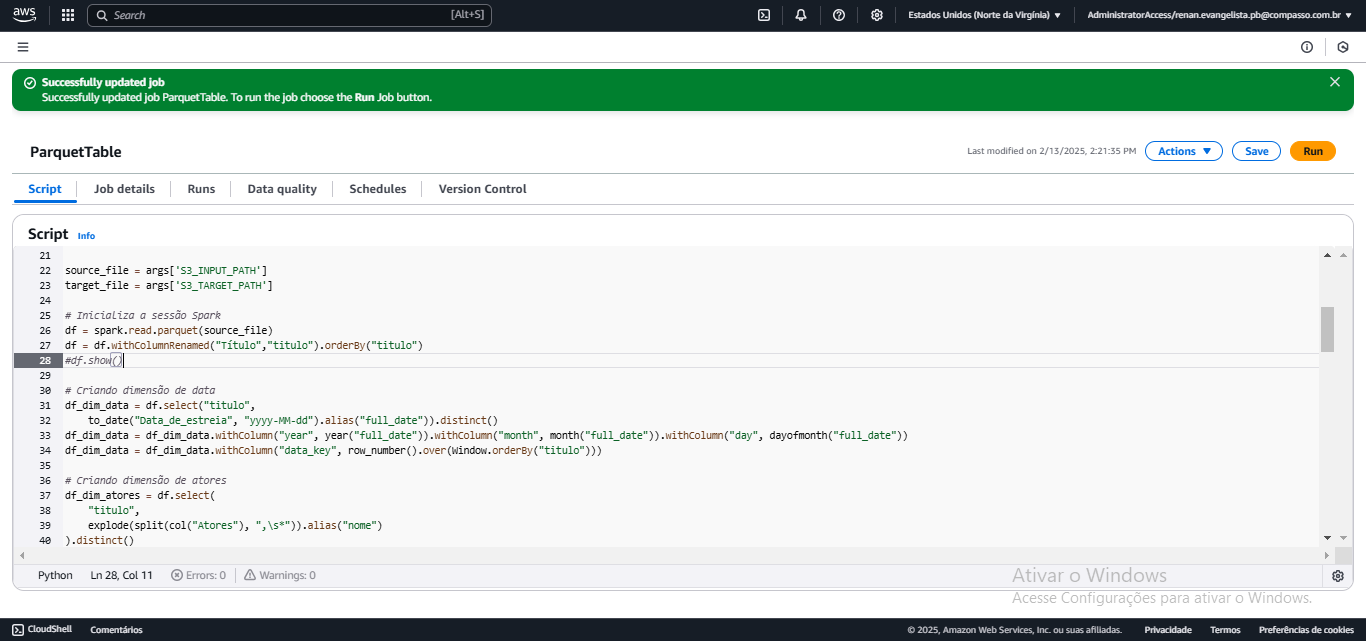
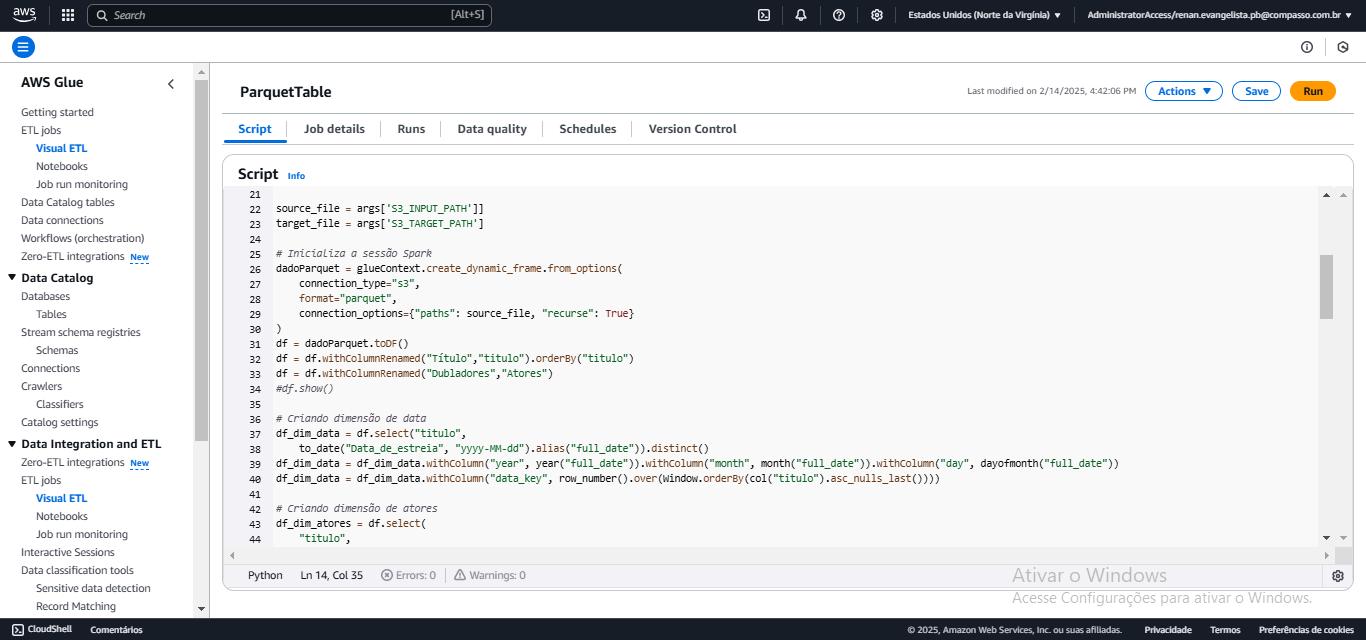
Depositando Sprint 9

diff --git a/Sprint9/desafio/README.md b/Sprint9/desafio/README.md
@@ -176,14 +176,14 @@ Na configuração do detalhe avançado, foi colocar o nome do arquivo python e d
 ![Imagem ](../evidencias/JobAdvancedDetailsGlue.png)
 
 
-Terminando a configuração do job do Glue, voltei para o bucket *renan-desafio-filmes-series-2024* do amazon S3, para pegar a url de onde está os arquivos parquet que serão usados para criar as tabelas. Aqui eu decidi usar sómente os arquivos que constam na camada *Trusted/TMDB/Parquet/*, onde só constá os arquivos parquet que trazem informação vinda da API TMDB.
+Terminando a configuração do job do Glue, voltei para o bucket *renan-desafio-filmes-series-2024* do amazon S3, para pegar a url de onde está os arquivos parquet que serão usados para criar as tabelas. Aqui eu decidi usar sómente os arquivos que constam na camada *Trusted*, onde só constá os arquivos parquet.
 
 
 
 ![Imagem ](../evidencias/UrlParquetS3.png)
 
 
-Depois de pegar esse caminho do bucket, coloquei ele como variável de ambiente como *Input_Path* e *Targuet_Path* para serem usadas no script do job. O *Input_Path* guarda o caminho da camada Trusted/TMDB/Parquet do bucket S3, e o *Targuet_Path* guarda o caminho base para o bucket *renan-desafio-filmes-series-2024*, para servir de ajuda na hora de guardar as tabelas criadas.
+Depois de pegar esse caminho do bucket, coloquei ele como variável de ambiente como *Input_Path* e *Targuet_Path* para serem usadas no script do job. O *Input_Path* guarda o caminho da camada *Trusted* do bucket S3, e o *Targuet_Path* guarda o caminho base para o bucket *renan-desafio-filmes-series-2024*, para servir de ajuda na hora de guardar as tabelas criadas.
 
 
 ![Imagem](../evidencias/JobParametersGlue.png)
@@ -202,7 +202,7 @@ No começo do código coloquei os imports que seriam úteis para criar as tabela
 
 Depois dos imports, coloquei cada váriaveis de ambiente, tanto input e target, para serem usadas no código. 
 
-Depois de colocar os caminhos em váriaveis, fui criar o dataframe contendo todo o conteúdo dos arquivos parquets da camada Trusted/TMDB. Feito isso, já renomeei o nome da coluna *Título* para um padrão mais simples, e aproveitei para ordenar todo o dataframe por ele.  Com o termino da criação e organização do dataframe, criei o primeiro dataframe que serviria para criar a primeira dimesão do modelo dimensional, a dimesão data.
+Depois de colocar os caminhos em váriaveis, fui criar o dataframe contendo todo o conteúdo dos arquivos parquets da camada Trusted. Feito isso, já renomeei o nome da coluna *Título* para um padrão mais simples, e aproveitei para ordenar todo o dataframe por ele.  Com o termino da criação e organização do dataframe, criei o primeiro dataframe que serviria para criar a primeira dimesão do modelo dimensional, a dimesão data.
 
 Para criar a dimensão data, fiz ela com uma lógica de importar a coluna *titulo* do dataframe, para ordernar a tabela em um padrão igual ao do dataframe, e depois importar a coluna *Data_de_estreia*. Com as duas colunas ajeitadas, só foi destrinchar a coluna *Data_de_estreia* em ano, mês e dia, para fácil análise da dimensão no fututo. E com o fim disso, foi criar a *data_key* da dimensão e ordenar toda a dimensão por *título*, para ajuda futura.
 
